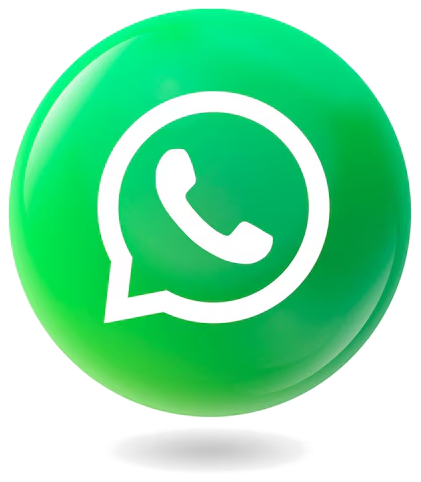
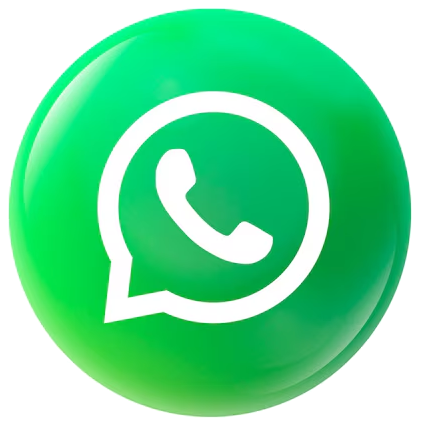
Resize WhatsApp artwork and remove lower shadow

diff --git a/app/globals.css b/app/globals.css
@@ -165,7 +165,7 @@ h2 { font-size:clamp(36px,4vw,58px); line-height:1.08; letter-spacing:-.045em; m
 .proof-benefits{display:grid;gap:12px}.proof-benefits article{display:flex;gap:16px;padding:22px;border:1px solid var(--border);border-radius:18px;background:rgba(255,255,255,.025)}.proof-benefits svg{flex:0 0 auto;color:var(--accent);margin-top:2px}.proof-benefits b{font-size:17px}.proof-benefits p{color:#929baa;font-size:12px;line-height:1.55;margin:7px 0 0}
 .about-section { display:grid; grid-template-columns:.8fr 1.1fr; gap:clamp(36px,7vw,100px); align-items:center; }.about-portrait { min-height:540px;border-radius:28px;position:relative;overflow:hidden;background:radial-gradient(circle at 50% 32%,rgba(167,187,255,.19),transparent 33%),linear-gradient(160deg,#11151d,#080a0e)}.portrait-mark{height:100%;min-height:540px;display:grid;place-items:center;position:relative}.portrait-mark span{font-size:210px;font-weight:300;color:rgba(255,255,255,.08);line-height:1}.portrait-mark i{position:absolute;width:220px;height:300px;border-radius:120px 120px 40px 40px;background:linear-gradient(145deg,rgba(255,255,255,.09),rgba(255,255,255,.015));border:1px solid rgba(255,255,255,.1);box-shadow:inset 0 1px rgba(255,255,255,.16);backdrop-filter:blur(20px)}.portrait-caption{position:absolute;bottom:24px;left:24px}.portrait-caption small{display:block;font-size:8px;letter-spacing:.14em;color:#7f899b;margin-bottom:6px}.portrait-caption b{font-size:18px}.about-copy>p{color:var(--muted);font-weight:300;line-height:1.75;max-width:620px}.stats{display:grid;grid-template-columns:repeat(4,1fr);gap:10px;margin-top:36px}.stats div{padding:15px 0;border-top:1px solid var(--border)}.stats b,.stats span{display:block}.stats b{font-size:17px}.stats span{font-size:10px;color:#798396;margin-top:4px}
 .plan-viewport{overflow:hidden;padding:20px;margin:-20px}.plan-grid{display:flex;gap:16px}.plan-card{flex:0 0 calc(33.333% - 11px);min-height:590px;border-radius:24px;padding:28px;display:flex;flex-direction:column;position:relative;transition:.55s cubic-bezier(.22,1,.36,1)}.plan-card.featured{border-color:rgba(167,187,255,.3);background:linear-gradient(155deg,rgba(167,187,255,.11),rgba(255,255,255,.025) 45%)}.best{position:absolute;right:22px;top:22px;border:1px solid rgba(167,187,255,.3);background:rgba(167,187,255,.11);color:#d8e0ff;border-radius:999px;padding:7px 10px;font-size:9px;text-transform:uppercase;letter-spacing:.12em}.plan-card h3{font-size:24px;margin:0 0 10px;letter-spacing:-.03em}.plan-card>p{color:#8c95a5;font-size:13px;line-height:1.55;min-height:42px}.price{margin:28px 0;padding:22px 0;border-block:1px solid var(--border)}.price small{display:block;color:#6f798b;text-transform:uppercase;font-size:8px;letter-spacing:.13em;margin-bottom:8px}.price b{font-size:30px;letter-spacing:-.04em}.price span{color:#7f899b;font-size:11px}.plan-card ul{list-style:none;padding:0;margin:0 0 28px;display:grid;gap:13px;color:#bbc2ce;font-size:12px}.plan-card li{display:flex;align-items:center;gap:9px}.plan-card li svg{color:var(--accent)}.plan-card>a{margin-top:auto}.carousel-controls{display:none;justify-content:center;gap:8px;margin-top:26px}.carousel-controls button{width:42px;height:42px;border-radius:50%;border:1px solid var(--border);background:var(--card)}
-.whatsapp-float{position:fixed;right:22px;bottom:18px;z-index:130;width:108px;display:block;background:transparent;transition:transform .45s cubic-bezier(.16,1,.3,1)}.whatsapp-float img{display:block;width:100%;height:auto}.whatsapp-float:hover{transform:translateY(-5px) scale(1.05)}.whatsapp-float:focus-visible{outline:3px solid rgba(167,187,255,.78);outline-offset:5px;border-radius:50%}
+.whatsapp-float{position:fixed;right:22px;bottom:18px;z-index:130;width:54px;display:block;background:transparent;transition:transform .45s cubic-bezier(.16,1,.3,1)}.whatsapp-float img{display:block;width:100%;height:auto}.whatsapp-float:hover{transform:translateY(-4px) scale(1.05)}.whatsapp-float:focus-visible{outline:3px solid rgba(167,187,255,.78);outline-offset:5px;border-radius:50%}
 .contact-section { display:grid;grid-template-columns:1fr 1fr;gap:clamp(40px,8vw,130px);align-items:center;min-height:760px;overflow:hidden}.contact-copy,.contact-form{position:relative;z-index:1}.contact-copy h2{font-size:clamp(48px,5vw,76px)}.contact-copy>p{color:var(--muted);line-height:1.7;max-width:520px}.availability{display:inline-flex;align-items:center;gap:9px;margin-top:24px;color:#a5adbb;font-size:12px}.contact-form{border-radius:25px;padding:28px;display:grid;gap:17px}.field-row{display:grid;grid-template-columns:1fr 1fr;gap:14px}.contact-form label{font-size:11px;color:#8f99aa;letter-spacing:.04em}.contact-form label>span{color:#586174}.contact-form input,.contact-form textarea{display:block;width:100%;margin-top:8px;background:rgba(0,0,0,.2);border:1px solid rgba(255,255,255,.08);border-radius:11px;color:#fff;padding:13px 14px;outline:none;resize:vertical;transition:.25s}.contact-form input:focus,.contact-form textarea:focus{border-color:rgba(167,187,255,.48);box-shadow:0 0 0 3px rgba(167,187,255,.07)}.contact-form label small,.form-error{display:block;color:#ff9b9b;margin-top:6px}.honeypot{position:absolute!important;left:-9999px!important}.contact-form .consent{display:flex;align-items:flex-start;gap:8px;letter-spacing:0;line-height:1.5}.consent input{width:15px;height:15px;margin:2px 0 0}.consent a{text-decoration:underline;color:#cbd6ff}.submit{border:0;cursor:pointer}.submit:disabled{opacity:.6}.form-status{margin:0;text-align:center;color:#bfcae8;font-size:12px}
 footer{max-width:1700px;margin:auto;padding:60px clamp(24px,5vw,84px) 30px;border-top:1px solid var(--border)}.footer-main{display:grid;grid-template-columns:1fr 1fr 1fr;gap:30px;align-items:start}.footer-main>p{color:#798396;margin:0;font-size:13px;max-width:300px}.footer-links{display:grid;grid-template-columns:1fr 1fr;gap:12px;font-size:12px;color:#a1a9b7}.footer-bottom{display:flex;justify-content:space-between;gap:20px;margin-top:55px;padding-top:22px;border-top:1px solid var(--border);font-size:10px;color:#5f6878}.footer-bottom div{display:flex;gap:18px}.legal-note{font-size:9px;color:#465064;text-align:center;margin:25px 0 0}
 .modal-backdrop{position:fixed;inset:0;background:rgba(0,0,0,.76);backdrop-filter:blur(16px);z-index:150;display:grid;place-items:center;padding:clamp(14px,4vw,50px)}.browser-modal{width:min(1260px,100%);height:min(820px,90vh);border-radius:20px;overflow:hidden;background:#0a0d12;border:1px solid rgba(255,255,255,.14);box-shadow:0 40px 160px #000}.browser-bar{height:58px;display:grid;grid-template-columns:1fr 2fr 1fr;align-items:center;padding:0 18px;background:#12161d;border-bottom:1px solid var(--border)}.traffic{display:flex;gap:7px}.traffic i{width:11px;height:11px;border-radius:50%;background:#ff5f57}.traffic i:nth-child(2){background:#febc2e}.traffic i:nth-child(3){background:#28c840}.address{justify-self:center;width:min(460px,100%);height:32px;border-radius:8px;background:#090c11;display:flex;align-items:center;justify-content:center;gap:7px;color:#687284;font-size:10px}.browser-bar button{justify-self:end;width:34px;height:34px;border:0;border-radius:8px;background:transparent}.browser-scroll{height:calc(100% - 58px);overflow:auto}.project-visual.large{height:1200px;border-radius:0}.project-visual.large .mock-nav{height:70px}.project-visual.large .mock-body{height:700px}.project-visual.large .mock-copy b{font-size:64px;max-width:520px}
@@ -179,5 +179,5 @@ footer{max-width:1700px;margin:auto;padding:60px clamp(24px,5vw,84px) 30px;borde
 @media(max-width:650px){.lighthouse-showcase{padding:22px 16px}.proof-label{font-size:9px}.proof-scores{gap:6px;margin:26px 0}.proof-scores i{width:58px;height:58px}.proof-scores b{font-size:15px}.proof-scores span{font-size:8px}.proof-metrics{grid-template-columns:1fr}.proof-metrics div:nth-child(n){padding:12px 0;border-left:0}.proof-benefits{grid-template-columns:1fr}.proof-benefits article{display:flex}.proof-benefits svg{margin-bottom:0}}
 @media(max-width:980px){.scrolly-grid.carousel-grid{display:flex;justify-content:center}.carousel-grid .scrolly-copy{height:340px;align-self:auto}.carousel-grid .scrolly-scene{justify-content:center}.portfolio-page-grid{grid-template-columns:1fr}}
 @media(max-width:650px){.carousel-hero{height:auto;min-height:0}.carousel-sticky{height:max(100svh,900px);min-height:100svh;padding-inline:18px}.scrolly-grid.carousel-grid{transform:translateY(-38px)}.carousel-grid .scrolly-copy{height:330px}.carousel-grid .scrolly-scene h1{font-size:clamp(37px,11vw,48px)}.hero-static-content{width:100%}.hero-static-content .hero-actions{width:min(420px,100%)}.hero-proof-strip{height:112px}.hero-proof-strip>div{padding:10px 5px;gap:6px}.hero-proof-strip b{font-size:21px}.hero-proof-strip span{font-size:6px;letter-spacing:.09em}.hero-proof-strip>div:after{width:22px}.carousel-controls-hero{bottom:24px}.marquee-project{width:78vw}.marquee-project .project-visual{height:190px}.portfolio-marquee{gap:12px}.portfolio-page{padding-inline:16px}.portfolio-page-hero{padding:90px 0 45px}.portfolio-page-hero h1{font-size:40px}.portfolio-page-nav .secondary-button{padding-inline:12px}}
-@media(max-width:650px){.whatsapp-float{width:84px;right:10px;bottom:12px}}
+@media(max-width:650px){.whatsapp-float{width:42px;right:12px;bottom:12px}}
 @media(prefers-reduced-motion:reduce){html{scroll-behavior:auto}*,*:before,*:after{animation-duration:.01ms!important;animation-iteration-count:1!important;transition-duration:.01ms!important}.hero-aurora span{animation:none!important}}

diff --git a/app/page.tsx b/app/page.tsx
@@ -287,7 +287,7 @@ export default function Home() {
           rel="noopener noreferrer"
           aria-label="Conversar pelo WhatsApp"
         >
-          <img src="/whatsapp-3d.png" alt="" width="421" height="482" />
+          <img src="/whatsapp-3d.png" alt="" width="421" height="421" />
         </a>
 
         <Section id="contato" className="contact-section">
